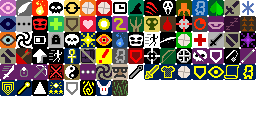
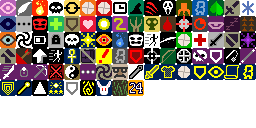
肘击buff贴图

Changed region(s): [[0.5, 0.625, 0.5625, 0.75]]

diff --git a/core/src/main/java/com/shatteredpixel/shatteredpixeldungeon/ui/BuffIndicator.java b/core/src/main/java/com/shatteredpixel/shatteredpixeldungeon/ui/BuffIndicator.java
@@ -139,6 +139,7 @@ public class BuffIndicator extends Component {
 	public static final int MAGIC_MARK 	= 85;
 	public static final int RABBIT_MAGIC = 86;
 	public static final int GRASS 		= 87;
+	public static final int MANBA		= 88;
 
 	public static final int SIZE_SMALL  = 7;
 	public static final int SIZE_LARGE  = 16;

diff --git a/core/src/main/java/com/shatteredpixel/shatteredpixeldungeon/items/food/IcyRedTea.java b/core/src/main/java/com/shatteredpixel/shatteredpixeldungeon/items/food/IcyRedTea.java
@@ -45,7 +45,7 @@ public class IcyRedTea extends Food{
 
         @Override
         public int icon() {
-            return BuffIndicator.WEAPON;
+            return BuffIndicator.MANBA;
         }
 
         @Override
